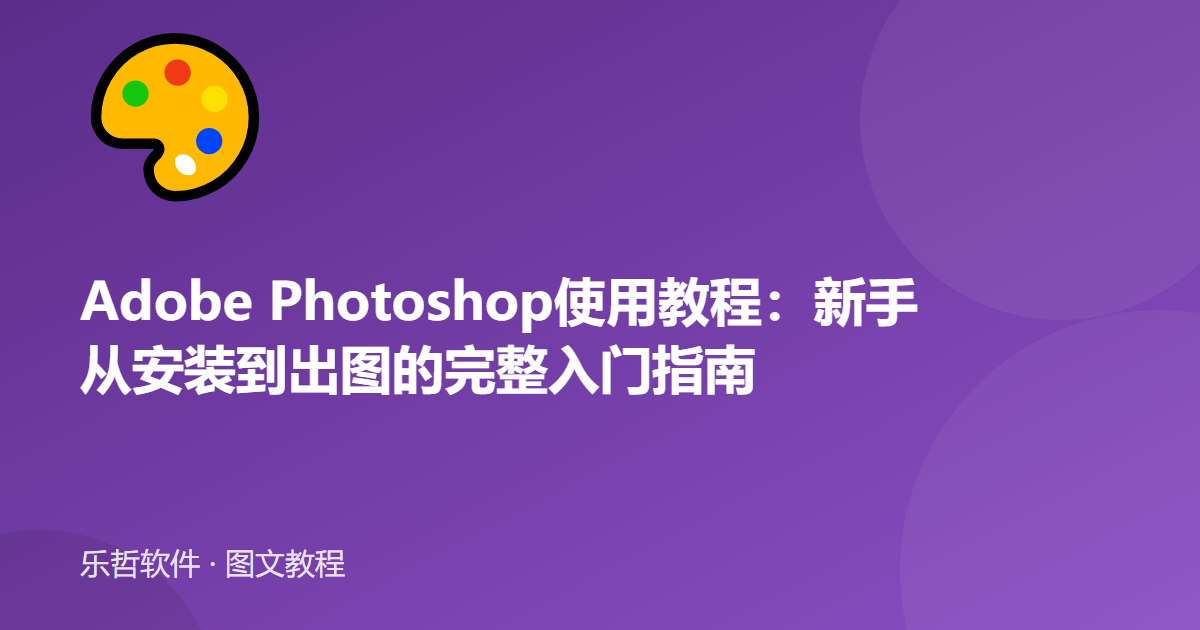
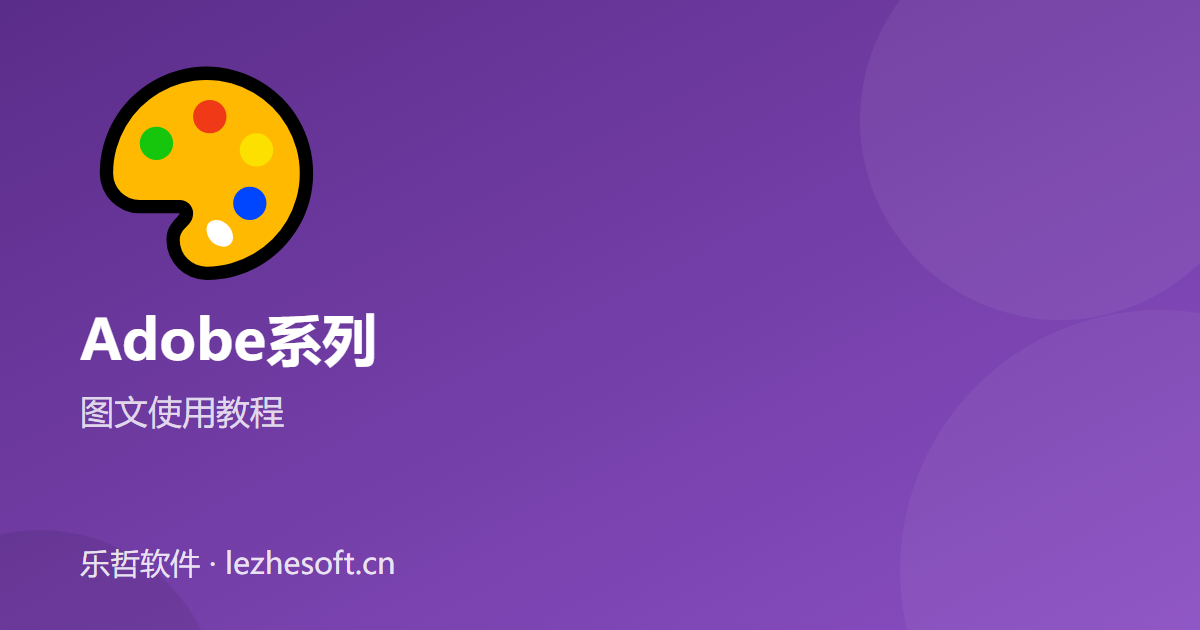
SEO: 封面手机端适配（卡片等比显示+详情弹窗补封面+封面去标题防重影+封面回写DB）

Changed region(s): [[0.0617, 0.0302, 0.6475, 0.6937], [0.6783, 0.4222, 0.7708, 0.5429], [0.185, 0.8746, 0.3392, 0.9349]]

diff --git a/index.html b/index.html
@@ -1268,7 +1268,7 @@ body.ls-locked{overflow:hidden !important}
 <div class="detail-overlay" id="detailOverlay"><canvas id="detailParticles"></canvas><div class="detail-page"><div class="detail-topbar"><button class="detail-back" id="detailClose"><i class="fas fa-arrow-left"></i></button><div class="detail-topbar-title">软件详情</div></div><div class="detail-breadcrumb"><a href="javascript:void(0)" onclick="Detail.close();setTimeout(function(){if(window.App&amp;&amp;App.goHome)App.goHome();},100)">🏠 首页</a><span class="sep">/</span><span id="detailBreadCat">软件库</span></div><h2 id="detailName">软件名称</h2><div class="detail-author-row"><div class="detail-author-avatar">乐</div><div class="detail-author-info"><div class="detail-author-name">乐哲软件 <span class="verified">✓</span></div><div class="detail-author-meta"><span id="detailAuthorCat">📂 软件库</span><span id="detailAuthorViews">👁 0</span><span id="detailAuthorDate">📅 近日</span></div></div></div><div class="detail-tags" id="detailTags"></div><div class="detail-info-grid" id="detailInfoGrid"></div><div class="detail-stats-row" id="detailStatsRow"></div><div class="detail-section-title">✨ 软件介绍</div><div class="detail-meta hidden" id="detailMeta"></div><div class="detail-desc" id="detailDesc"></div><div class="detail-section-title" id="detailShotTitle" style="display:none">📸 软件截图</div><div class="detail-screenshots hidden" id="detailScreenshots"></div><div class="detail-changelog hidden" id="detailChangelog"></div><div class="detail-requirements hidden" id="detailRequirements"></div><div class="related-software hidden" id="relatedSoftware" style="margin:24px 24px 0"><h4>📎 相关推荐</h4><div class="related-grid" id="relatedGrid"></div></div><div class="detail-action-bar"><button class="btn btn-primary" id="detailDownload"><i class="fas fa-download"></i> 下载</button><button class="btn btn-outline btn-fav" id="detailFavBtn"><i class="far fa-heart"></i> 收藏</button><button class="btn btn-outline" id="detailShareBtn"><i class="fas fa-share-alt"></i> 分享</button><button class="btn btn-outline" id="detailFeedbackBtn"><i class="fas fa-comment-dots"></i> 反馈</button></div></div></div>
 <nav class="mobile-bottom-nav" id="mobileBottomNav"><a href="#" data-page="home" class=""><i class="fas fa-home"></i><span>首页</span></a><a href="#" data-page="list"><i class="fas fa-th-list"></i><span>软件库</span></a><a href="#" data-page="checkin"><i class="fas fa-calendar-check"></i><span>签到</span></a><a href="#" data-page="ranking"><i class="fas fa-trophy"></i><span>排行</span></a><a href="#" data-page="mall"><i class="fas fa-gift"></i><span>商城</span></a><a href="#" data-page="profile" style="display:none;"><i class="fas fa-user"></i><span>我的</span></a></nav>
 <div class="share-float" id="shareFloat"><a href="#" onclick="shareOn('wechat');return false;" title="分享到微信"><i class="fab fa-weixin"></i></a><a href="#" onclick="shareOn('weibo');return false;" title="分享到微博"><i class="fab fa-weibo"></i></a><a href="#" onclick="shareOn('twitter');return false;" title="分享到Twitter"><i class="fab fa-twitter"></i></a><a href="#" onclick="copyLink();return false;" title="复制链接"><i class="fas fa-link"></i></a><a href="#" onclick="window.scrollTo({top:0,behavior:'smooth'});return false;" title="回到顶部"><i class="fas fa-arrow-up"></i></a></div>
-<div class="modal-overlay" id="tutorialDetailModal"><div class="modal-box" style="padding:0;max-width:900px;"><button class="close-btn" id="tutorialDetailClose" style="position:sticky;top:12px;right:12px;z-index:10;float:right;background:rgba(0,0,0,0.5);color:#fff;border-radius:50%;width:36px;height:36px;display:flex;align-items:center;justify-content:center;font-size:1.2rem;border:none;cursor:pointer;margin:8px 8px 0 0;">×</button><div style="padding:0 24px 8px;border-bottom:1px solid var(--border-glow);"><h3 id="tutorialDetailTitle" style="margin:8px 0 4px;font-size:1.5rem;font-weight:700;">教程标题</h3><div class="meta" style="font-size:.8rem;color:var(--text-dim);display:flex;gap:12px;flex-wrap:wrap;padding-bottom:8px;" id="tutorialDetailMeta"></div></div><div id="tutorialDetailVideos" style="padding:16px 24px 0;"></div><div id="tutorialDetailContent"></div><div id="tutorialComments"><h4><i class="far fa-comment-dots"></i> 评论</h4><div id="commentList"></div><div class="comment-input-area"><input type="text" id="commentAuthor" placeholder="昵称（可选）" style="flex:0.4;min-width:80px;"><input type="text" id="commentContent" placeholder="写评论..." style="flex:1;min-width:120px;"><button class="btn btn-primary" id="commentSubmitBtn">发表</button></div></div><div class="form-actions" style="padding:8px 24px 20px;border-top:1px solid var(--border-glow);"><button class="btn btn-outline" id="tutorialDetailCloseBtn">关闭</button></div></div></div>
+<div class="modal-overlay" id="tutorialDetailModal"><div class="modal-box" style="padding:0;max-width:900px;"><button class="close-btn" id="tutorialDetailClose" style="position:sticky;top:12px;right:12px;z-index:10;float:right;background:rgba(0,0,0,0.5);color:#fff;border-radius:50%;width:36px;height:36px;display:flex;align-items:center;justify-content:center;font-size:1.2rem;border:none;cursor:pointer;margin:8px 8px 0 0;">×</button><div style="padding:0 24px 8px;border-bottom:1px solid var(--border-glow);"><h3 id="tutorialDetailTitle" style="margin:8px 0 4px;font-size:1.5rem;font-weight:700;">教程标题</h3><div class="meta" style="font-size:.8rem;color:var(--text-dim);display:flex;gap:12px;flex-wrap:wrap;padding-bottom:8px;" id="tutorialDetailMeta"></div></div><div id="tutorialDetailVideos" style="padding:16px 24px 0;"></div><div id="tutorialDetailCover" style="padding:0 24px;"></div><div id="tutorialDetailContent"></div><div id="tutorialComments"><h4><i class="far fa-comment-dots"></i> 评论</h4><div id="commentList"></div><div class="comment-input-area"><input type="text" id="commentAuthor" placeholder="昵称（可选）" style="flex:0.4;min-width:80px;"><input type="text" id="commentContent" placeholder="写评论..." style="flex:1;min-width:120px;"><button class="btn btn-primary" id="commentSubmitBtn">发表</button></div></div><div class="form-actions" style="padding:8px 24px 20px;border-top:1px solid var(--border-glow);"><button class="btn btn-outline" id="tutorialDetailCloseBtn">关闭</button></div></div></div>
 <div class="modal-overlay" id="questionModal" data-rich-init="1"><div class="modal-box" style="max-width:700px;"><button class="close-btn" id="questionModalClose">×</button><h3><i class="fas fa-question-circle"></i> 提出你的问题</h3><p style="color:var(--text-secondary);font-size:0.85rem;margin-bottom:16px;">🎉 欢迎来到乐哲社区！无论遇到软件安装报错、找不到激活工具，还是对设计/开发流程有疑问，这里都是你最好的避风港。不要害怕问题太简单，每一个大神都是从"小白"走过来的。</p><div class="form-group"><label>问题标题 *</label><input type="text" id="qTitle" placeholder="简明扼要地描述你的问题，例如：Photoshop 2026 启动时提示'授权失败'"></div><div class="form-group"><label>详细描述 *</label><div class="rich-editor-wrapper"><div class="rich-toolbar"><button type="button" data-action="bold" title="粗体"><i class="fas fa-bold"></i></button><button type="button" data-action="italic" title="斜体"><i class="fas fa-italic"></i></button><button type="button" data-action="underline" title="下划线"><i class="fas fa-underline"></i></button><button type="button" data-action="insertUnorderedList" title="无序列表"><i class="fas fa-list-ul"></i></button><button type="button" data-action="insertOrderedList" title="有序列表"><i class="fas fa-list-ol"></i></button><button type="button" data-action="createLink" title="插入链接"><i class="fas fa-link"></i></button><button type="button" data-action="insertCode" title="代码块"><i class="fas fa-code"></i></button><button type="button" data-action="insertImage" title="上传图片"><i class="fas fa-image"></i></button><input type="file" id="qImageUpload" accept="image/*" style="display:none;"></div><div class="rich-editor" contenteditable="true" id="qBody" data-placeholder="请详细描述：
 1. 你的系统环境（Windows/Mac/Android版本）
 2. 问题的具体表现
@@ -2472,7 +2472,7 @@ var coverStyle=coverUrl?'background-image:url('+escapeAttr(coverUrl)+');backgrou
 var badgeHtml=videoCount>0?'<span style="position:absolute;top:12px;right:12px;background:rgba(0,0,0,0.65);color:#fff;padding:2px 12px;border-radius:20px;font-size:0.65rem;font-weight:600;"><i class="fas fa-video"></i> '+videoCount+'</span>':'<span style="position:absolute;top:12px;right:12px;background:rgba(0,0,0,0.45);color:#fff;padding:2px 10px;border-radius:20px;font-size:0.6rem;">📄 图文</span>';
 var likes=t.likes||0;
 html+='<div class="tut-card" data-id="'+escapeAttr(t.id)+'" style="cursor:pointer;border-radius:16px;overflow:hidden;background:var(--bg-card-solid);border:1px solid var(--border-glow);box-shadow:0 2px 12px rgba(0,0,0,0.04);transition:all 0.3s;position:relative;display:flex;flex-direction:column;">'+
-'<div style="height:200px;'+coverStyle+'position:relative;flex-shrink:0;background-color:#1a1a2e;">'+
+'<div style="aspect-ratio:1200/630;width:100%;'+coverStyle+'position:relative;flex-shrink:0;background-color:#1a1a2e;">'+
 '<div style="position:absolute;inset:0;background:linear-gradient(180deg,transparent 40%,rgba(0,0,0,0.4) 100%);"></div>'+
 badgeHtml+
 '<div style="position:absolute;bottom:0;left:0;right:0;padding:16px 18px 14px;color:#fff;">'+
@@ -2500,6 +2500,13 @@ if(!tut)return;
 document.getElementById('tutorialDetailTitle').textContent=sanitizeUnicode(tut.title);
 document.getElementById('tutorialDetailMeta').innerHTML='<span>'+escapeHTML(tut.category)+'</span><span>·</span><span><i class="far fa-clock"></i> '+timeAgo(tut.created_at)+'</span><span>·</span><span><i class="far fa-heart"></i> '+(tut.likes||0)+'</span>';
 document.getElementById('tutorialDetailContent').innerHTML=sanitizeHTML(tut.content||'');
+var coverBox=document.getElementById('tutorialDetailCover');
+if(coverBox){
+if(tut.cover){
+coverBox.innerHTML='<img src="'+escapeAttr(tut.cover)+'" alt="'+escapeAttr(sanitizeUnicode(tut.title))+'" width="1200" height="630" loading="eager" style="display:block;width:100%;height:auto;aspect-ratio:1200/630;object-fit:cover;border-radius:12px;margin:10px 0;">';
+coverBox.style.display='block';
+}else{coverBox.innerHTML='';coverBox.style.display='none';}
+}
 var videos2=[];
 try{if(tut.videos)videos2=typeof tut.videos==='string'?JSON.parse(tut.videos):tut.videos;}catch(e){videos2=[];}
 if(!Array.isArray(videos2))videos2=[];
